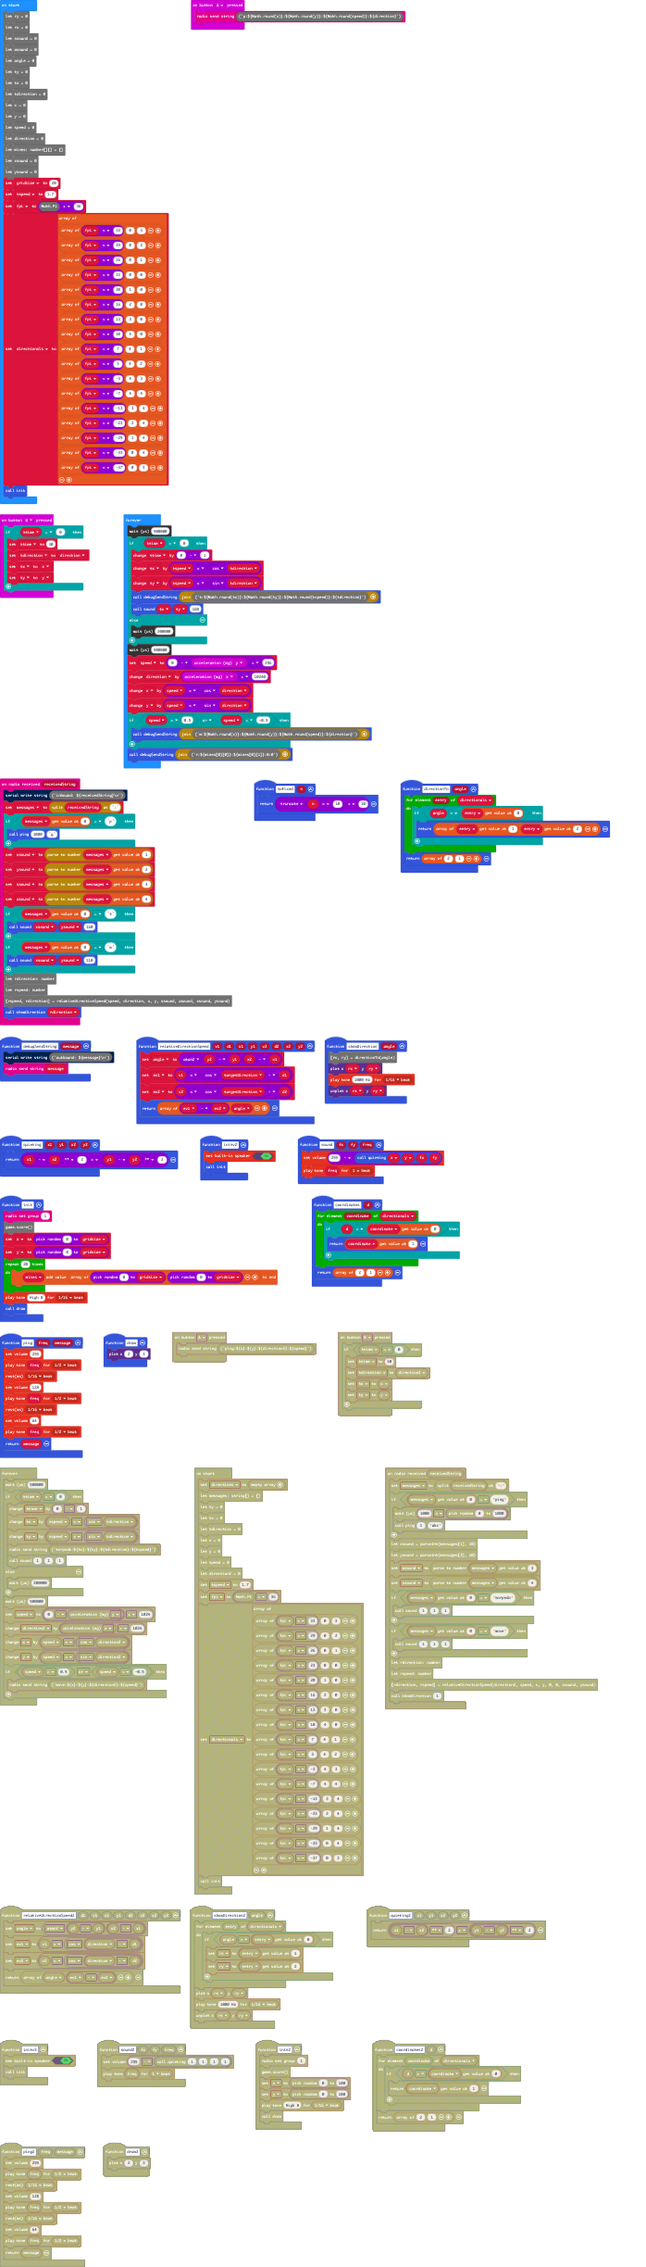
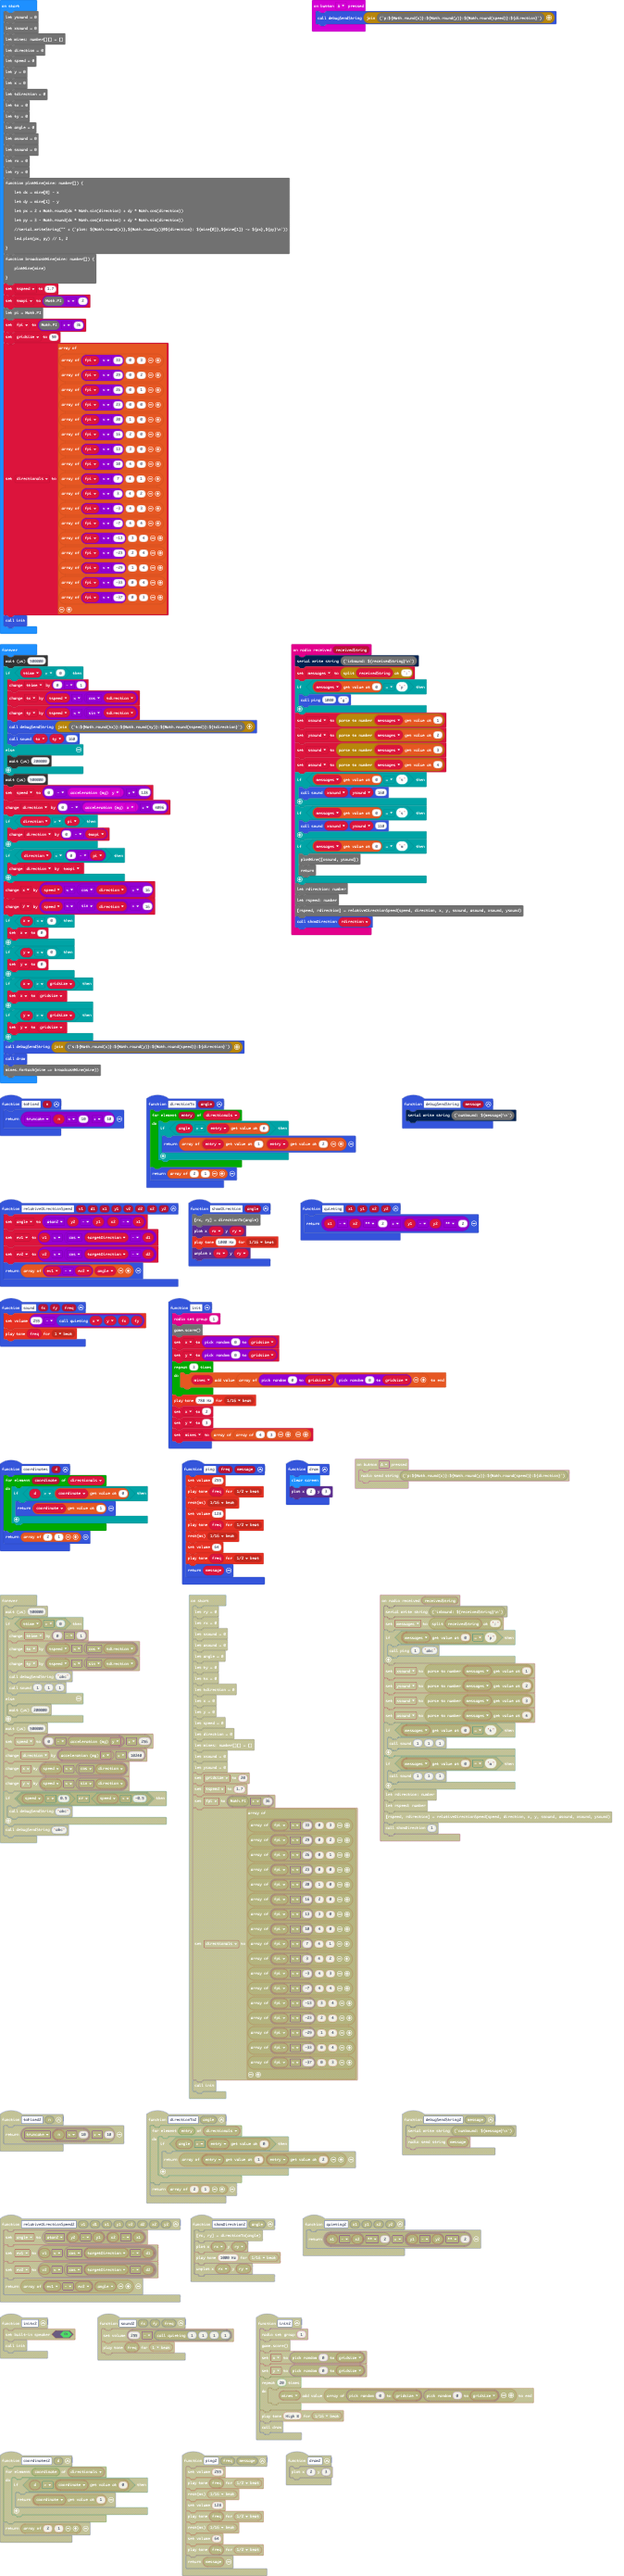
debug and turn off repeating beeps

diff --git a/main.ts b/main.ts
@@ -1,17 +1,6 @@
 function quieting (x1: number, y1: number, x2: number, y2: number) {
     return (x1 - x2) ** 2 + (y1 - y2) ** 2
 }
-function ping (freq: number, message: string) {
-    music.setVolume(255)
-    music.playTone(freq, music.beat(BeatFraction.Half))
-    music.rest(music.beat(BeatFraction.Sixteenth))
-    music.setVolume(128)
-    music.playTone(freq, music.beat(BeatFraction.Half))
-    music.rest(music.beat(BeatFraction.Sixteenth))
-    music.setVolume(64)
-    music.playTone(freq, music.beat(BeatFraction.Half))
-    return message
-}
 function toFixed (n: number) {
     return Math.trunc(n * 10) / 10
 }
@@ -30,9 +19,6 @@ function directionTo (angle: number) {
     }
     return [2, 1]
 }
-input.onButtonPressed(Button.A, function () {
-    debugSendString("" + (`p:${Math.round(x)}:${Math.round(y)}:${Math.round(speed)}:${direction}`))
-})
 function coordinates (d: number) {
     for (let coordinate of directionals) {
         if (d > coordinate[0]) {
@@ -41,7 +27,7 @@ function coordinates (d: number) {
     }
     return [2, 1]
 }
-function draw() {
+function draw () {
     basic.clearScreen()
     led.plot(2, 3)
 }
@@ -51,28 +37,29 @@ function sound (fx: number, fy: number, freq: number) {
 }
 function debugSendString (message: string) {
     serial.writeString("" + (`outbound: ${message}\n`))
-    //radio.sendString(message)
+    radio.sendString(message)
 }
 function init () {
     radio.setGroup(1)
     game.score()
-    x = randint(0, gridsize)
+x = randint(0, gridsize)
     y = randint(0, gridsize)
     for (let index = 0; index < 3; index++) {
         mines.push([randint(0, gridsize), randint(0, gridsize)])
     }
     music.playTone(788, music.beat(BeatFraction.Sixteenth))
-    // return
-    //direction = -pi/2
-    x=2
-    y=3
-    mines = [[4,3]]
+    x = 2
+    y = 3
+    mines = [[4, 3]]
 }
 radio.onReceivedString(function (receivedString) {
     serial.writeString("" + (`inbound: ${receivedString}\n`))
     messages = receivedString.split(":")
     if (messages[0] == "p") {
-        ping(1000, "g")
+        music.rest(music.beat(BeatFraction.Sixteenth))
+        music.setVolume(128)
+        music.playTone(1100, music.beat(BeatFraction.Half))
+        debugSendString("" + (`g:${Math.round(x)}:${Math.round(y)}:${Math.round(speed)}:${direction}`))
     }
     xsound = parseFloat(messages[1])
     ysound = parseFloat(messages[2])
@@ -82,16 +69,21 @@ radio.onReceivedString(function (receivedString) {
         sound(xsound, ysound, 160)
     }
     if (messages[0] == "s") {
-        sound(xsound, ysound, 110)
+        //sound(xsound, ysound, 110)
     }
     if (messages[0] == "m") {
         plotMine([xsound, ysound])
-        return
+return
     }
     let rdirection: number
-    let rspeed: number
-    [rspeed, rdirection] = relativeDirectionSpeed(speed, direction, x, y, ssound, asound, xsound, ysound)
-    showDirection(rdirection)
+let rspeed: number
+[rspeed, rdirection] = relativeDirectionSpeed(speed, direction, x, y, ssound, asound, xsound, ysound)
+showDirection(rdirection)
+})
+input.onButtonPressed(Button.A, function () {
+    debugSendString("" + (`p:${Math.round(x)}:${Math.round(y)}:${Math.round(speed)}:${direction}`))    
+    music.setVolume(255)
+    music.playTone(1000, music.beat(BeatFraction.Half))
 })
 input.onButtonPressed(Button.B, function () {
     if (ttime == 0) {
@@ -103,10 +95,31 @@ input.onButtonPressed(Button.B, function () {
 })
 function showDirection (angle: number) {
     [rx, ry] = directionTo(angle)
-    led.plot(rx, ry)
-    music.playTone(1000, music.beat(BeatFraction.Sixteenth))
+led.plot(rx, ry)
+    //music.playTone(1000, music.beat(BeatFraction.Sixteenth))
     led.unplot(rx, ry)
 }
+let ttime = 0
+let messages: string[] = []
+let ev2 = 0
+let ev1 = 0
+let directionals: number[][] = []
+let gridsize = 0
+let ysound = 0
+let xsound = 0
+let mines: number[][] = []
+let direction = 0
+let speed = 0
+let y = 0
+let x = 0
+let tdirection = 0
+let tx = 0
+let ty = 0
+let angle = 0
+let asound = 0
+let ssound = 0
+let rx = 0
+let ry = 0
 function plotMine(mine: number[]) {
     let dx = mine[0] - x
     let dy = mine[1] - y
@@ -118,32 +131,11 @@ function plotMine(mine: number[]) {
 function broadcastMine(mine: number[]) {
     plotMine(mine)
 }
-let ttime = 0
-let messages: string[] = []
-let ev2 = 0
-let ev1 = 0
-let directionals: number[][] = []
-let gridsize = 0
-let ry = 0
-let rx = 0
-let ssound = 0
-let asound = 0
-let angle = 0
-let ty = 0
-let tx = 0
-let tdirection = 0
-let x = 0
-let y = 0
-let speed = 0
-let direction = 0
-let mines: number[][] = []
-let xsound = 0
-let ysound = 0
 let tspeed = 1.7
 let twopi = Math.PI * 2
 let pi = Math.PI
 let fpi = Math.PI / 36
-gridsize = 5
+gridsize = 50
 directionals = [
 [fpi * 33, 0, 3],
 [fpi * 29, 0, 2],
@@ -176,20 +168,29 @@ basic.forever(function () {
         control.waitMicros(200000)
     }
     control.waitMicros(500000)
-    speed = - input.acceleration(Dimension.Y) / 2048
-    direction -= input.acceleration(Dimension.X) / 4096
-    if(direction > pi)
-        direction -= twopi
-    if (direction < -pi)
+    speed = (0 - input.acceleration(Dimension.Y)) / 128
+    direction += 0 - input.acceleration(Dimension.X) / 4096
+    if (direction > pi) {
+        direction += 0 - twopi
+    }
+    if (direction < 0 - pi) {
         direction += twopi
-    x += speed * Math.cos(direction)
-    y += speed * Math.sin(direction)
-    if(x < 0) x = 0;
-    if(y < 0) y = 0;
-    if(x > gridsize) x = gridsize;
-    if(y > gridsize) y = gridsize;
+    }
+    x += speed * Math.cos(direction) / 16
+    y += speed * Math.sin(direction) / 16
+    if (x < 0) {
+        x = 0
+    }
+    if (y < 0) {
+        y = 0
+    }
+    if (x > gridsize) {
+        x = gridsize
+    }
+    if (y > gridsize) {
+        y = gridsize
+    }
     debugSendString("" + (`s:${Math.round(x)}:${Math.round(y)}:${Math.round(speed)}:${direction}`))
-    
     draw()
     mines.forEach(mine => broadcastMine(mine))
 })
